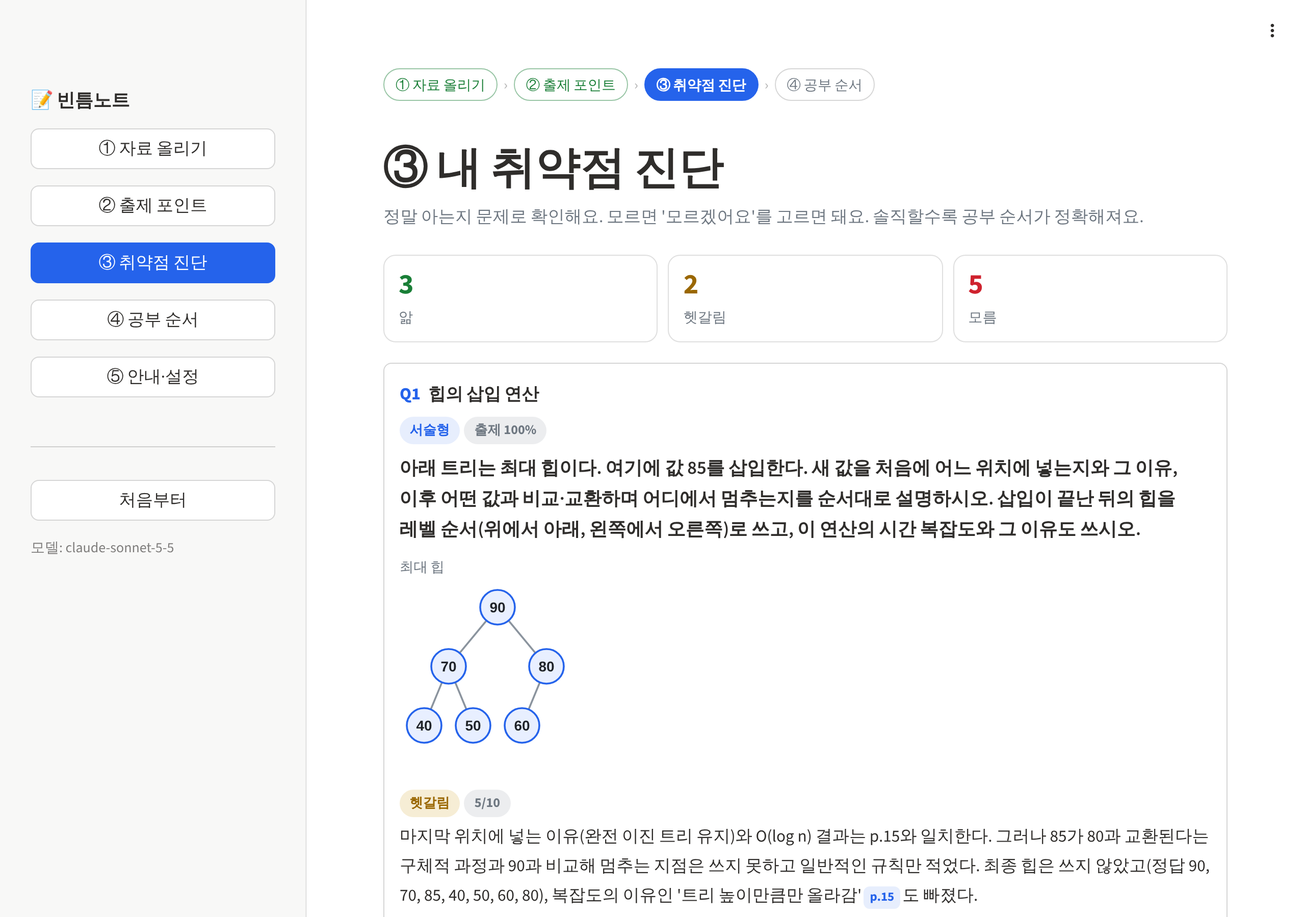
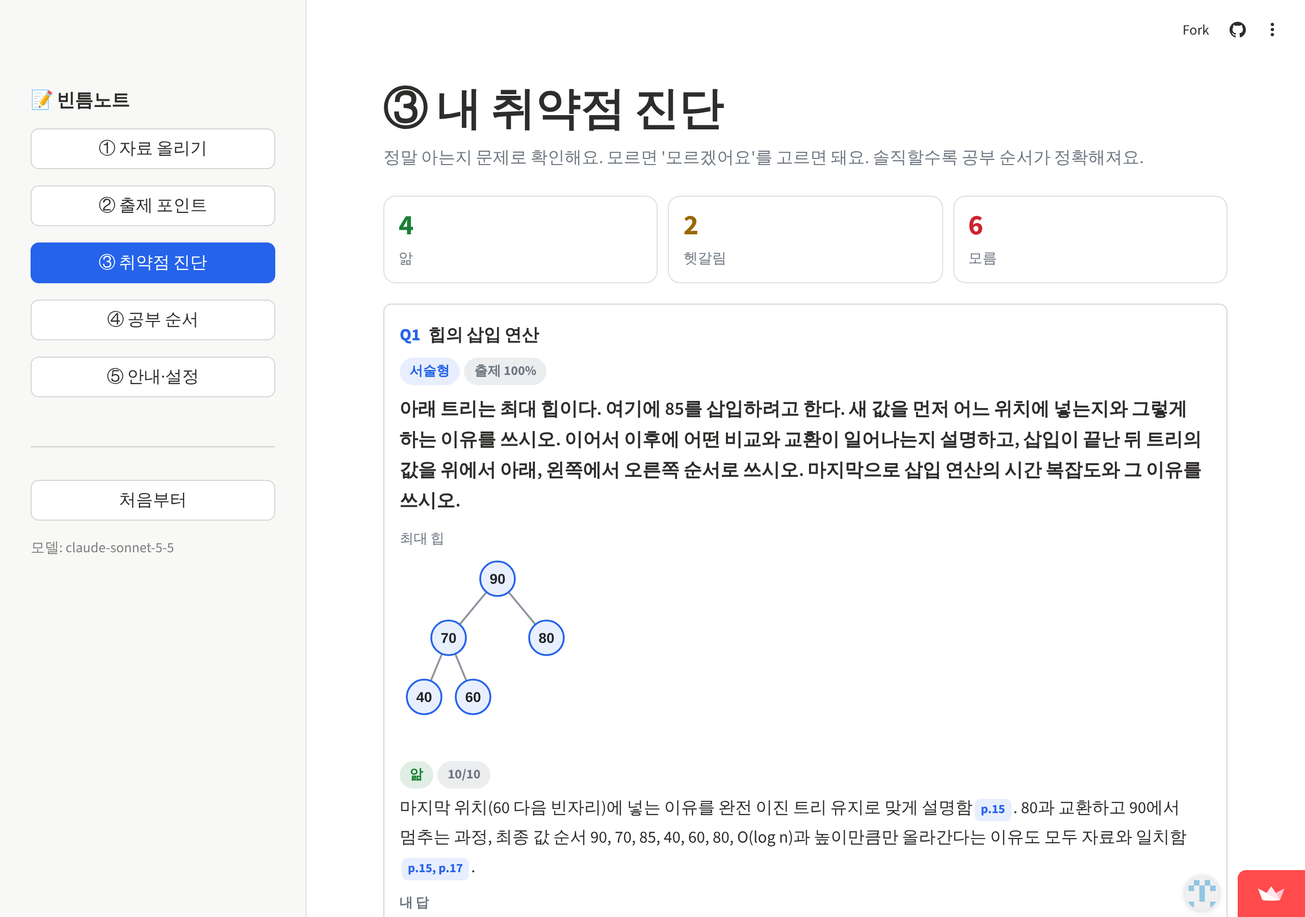
문서 v1.6 반영, 예시 답 채우기 실제 AI 확인 결과와 새 스크린샷
- 개발기획안·완성 프롬프트: v1.5(분석 횟수 제한, 빠른 진단, 샘플 문제 재사용)와 v1.6(예시 답 채우기, 예전 모듈 다시 읽기) 반영
- 배포 앱 실제 AI로 예시 답 채우기 3회 확인, 결과를 CHANGELOG·기획안에 기록
- 스크린샷: S03 예시 답 전/후 추가, S03 채점·S04 교체

Claude-Session: https://claude.ai/code/session_014aSPNmBzbdJDni6WBhZmBf

diff --git a/config.py b/config.py
@@ -1,5 +1,5 @@
 # -*- coding: utf-8 -*-
-"""빈틈노트 설정. 숫자와 이름은 여기 한 곳에서만 바꾼다. (v1.5)"""
+"""빈틈노트 설정. 숫자와 이름은 여기 한 곳에서만 바꾼다. (v1.6)"""
 
 LLM_MODEL = "claude-sonnet-5-5"   # 이 한 줄만 바꾸면 언어 모델 교체 (예: "claude-haiku-5-5")
 STT_MODEL = "whisper-1"           # None이면 음성 인식 끄기(대본 붙여넣기만 사용)

diff --git a/docs/완성프롬프트_v1.md b/docs/완성프롬프트_v1.md
@@ -1,6 +1,6 @@
 # 빈틈노트 완성 프롬프트 v1 (프로토타입 앱 생성용)
 
-> **사용법.** AI 코딩 도구(Claude Code, Codex, Cursor 등)를 빈 폴더에서 열고, 아래 "함께 주는 파일"을 그 폴더에 넣은 뒤, 이 파일 전체를 첫 메시지로 붙여 넣는다. 도구가 질문하면 `docs/개발기획안_v1.0.md` 15장의 기본값으로 답한다. 이 프롬프트는 2026-11-06 v1을 고친 v1.4(2026-11-08)이다(개발기획안 v1.4 반영: 필요한 개념 전부 진단, 객관식 추가, 화면 정리, HTML 내보내기, 문제 겹침 방지·말투 통일·답 없음 이유 구분, 문제 그림, 원본 페이지 그림, 시험 대비 요약 노트, 모든 문제에 답해야 채점, 부분 점수 채점과 실패 표시, 내려받기 2개로 나누기, 찍었을 때 헷갈린 점 적기와 그에 대한 답).
+> **사용법.** AI 코딩 도구(Claude Code, Codex, Cursor 등)를 빈 폴더에서 열고, 아래 "함께 주는 파일"을 그 폴더에 넣은 뒤, 이 파일 전체를 첫 메시지로 붙여 넣는다. 도구가 질문하면 `docs/개발기획안_v1.0.md` 15장의 기본값으로 답한다. 이 프롬프트는 2026-11-06 v1을 고친 v1.6(2026-11-09)이다(개발기획안 v1.6 반영: 필요한 개념 전부 진단, 객관식 추가, 화면 정리, HTML 내보내기, 문제 겹침 방지·말투 통일·답 없음 이유 구분, 문제 그림, 원본 페이지 그림, 시험 대비 요약 노트, 모든 문제에 답해야 채점, 부분 점수 채점과 실패 표시, 내려받기 2개로 나누기, 찍었을 때 헷갈린 점 적기와 그에 대한 답, API 비용 보호(세션·하루 분석 횟수 제한, 샘플 문제 재사용), AI 호출 수 바로 세기, 빠른 진단, 샘플 체험용 예시 답 채우기, 배포 뒤 예전 모듈 다시 읽기).
 
 ## 1. 역할과 목표
 
@@ -14,7 +14,7 @@
 
 | 파일 | 무엇 | 어떻게 쓰나 |
 |---|---|---|
-| `docs/개발기획안_v1.0.md` | 유일한 설계 문서. 화면(S01~S05), 기능(F01~F13), 규칙(BR-01~10), 데이터 형식(6장), AI 호출(7장), 점수 규칙(8장), 에러(E-01~15), 폴더 구조(10장), 테스트(11장) | 먼저 전부 읽는다. 이 프롬프트와 다르면 **개발기획안이 우선** |
+| `docs/개발기획안_v1.0.md` | 유일한 설계 문서. 화면(S01~S05), 기능(F01~F14), 규칙(BR-01~10), 데이터 형식(6장), AI 호출(7장), 점수 규칙(8장), 에러(E-01~17), 폴더 구조(10장), 테스트(11장) | 먼저 전부 읽는다. 이 프롬프트와 다르면 **개발기획안이 우선** |
 | `prompts/01_개념추출_v1.md` `02_강조발화_v1.md` `03A_진단문제_v1.md` `03B_채점_v1.md` `03C_객관식_v1.md` `04_보완설명_v1.md` `05_요약노트_v1.md` | 앱이 AI를 부를 때 쓰는 프롬프트 7개 | 내용을 고치지 않는다. 파일을 읽어 `{{자리}}`만 채워서 보낸다 |
 | `samples/자료구조_8장_트리와힙_가상강의자료.pdf` `samples/강의녹음_대본_8장_트리와힙.md` | 우리가 직접 만든 가상 샘플 자료(저작권 문제 없음) | "샘플로 체험" 버튼과 테스트에 쓴다 |
 | `tests/fixtures/01_개념추출_결과.json` `02_강조발화_결과.json` | 샘플 자료에 대한 AI 호출 1, 2의 저장된 결과(v0 형식이라 `meta_pages`가 없을 수 있음) | AI 없이 도는 테스트의 입력. `meta_pages`가 없으면 8.3의 보정 규칙으로 코드가 만든다 |
@@ -43,7 +43,8 @@
 ```text
 bintm-note/
 ├─ app.py                 # S01~S05 화면과 사이드바
-├─ config.py              # LLM_MODEL, STT_MODEL, DIAG_MIN_PCT(20), ESSAY_MIN_PCT(50), MAX_PAGES, MAX_EVIDENCE_PAGES, AUTO_EXPLAIN_TOP, CONFUSION_MAX_CHARS(300)
+├─ config.py              # LLM_MODEL, STT_MODEL, DIAG_MIN_PCT(20), ESSAY_MIN_PCT(50), MAX_PAGES, MAX_EVIDENCE_PAGES, MAX_MATERIAL_MB(30), MAX_AUDIO_MB(25), AUTO_EXPLAIN_TOP, AI_MAX_TOKENS(4000), NOTE_MAX_TOKENS(5000), CONFUSION_MAX_CHARS(300), MAX_ANALYSES_PER_SESSION(5), MAX_ANALYSES_PER_DAY(150), QUICK_DIAG_TOP(5)
+├─ CHANGELOG.md           # 버전별 변경과 실제 AI로 확인한 결과. 측정하지 않은 숫자는 적지 않는다
 ├─ core/
 │  ├─ extract.py          # F02 PDF(PyMuPDF)/PPTX(python-pptx) → pages[], F04 마스킹
 │  ├─ stt.py              # F03 녹음 → 대본 (OpenAI 전사 API). STT_MODEL이 None이면 비활성
@@ -53,12 +54,13 @@ bintm-note/
 │  ├─ concepts.py         # F05 호출 1 + 검사
 │  ├─ utterances.py       # F06 호출 2 + 인용 검사(대본에 실제로 있는 문장만)
 │  ├─ score.py            # F07 8장 점수. 가중치 표는 파일 맨 위
-│  ├─ diagnose.py         # F08 진단 대상(20% 이상 전부)·문제 형식 고르기, 호출 3-A(서술형)·3-C(객관식, 검사·보기 섞기·실패 시 서술형 대체), 3-B(서술형 채점). 객관식·"모르겠어요"는 코드 채점. is_answered(모든 문제에 답했는지). 그림 검사·다시 만들기
+│  ├─ diagnose.py         # F08 진단 대상(20% 이상 전부, 빠른 진단이면 상위 5개)·문제 형식 고르기, 호출 3-A(서술형)·3-C(객관식, 검사·보기 섞기·실패 시 서술형 대체), 3-B(서술형 채점). 객관식·"모르겠어요"는 코드 채점. is_answered(모든 문제에 답했는지). 그림 검사·다시 만들기. example_answers(샘플 체험용 예시 답, F11)
 │  ├─ figure.py           # F08 문제 그림(트리·배열·표) 검사와 그리기, 페이지·그림을 가리키는 문제 찾기
 │  ├─ priority.py         # F09 이해도 숫자화 + 우선순위
 │  ├─ explain.py          # F09 호출 4 + 페이지 검사
 │  ├─ pageimg.py          # F09 강의자료 PDF 한 쪽 → JPEG (PyMuPDF)
 │  ├─ note.py             # F13 요약 노트: 자세한 정도, 강의 순서, 호출 5
+│  ├─ guard.py            # F14 API 비용 보호: session_left, DailyCounter(서버 전체 하루 횟수), ResultCache(샘플 문제 재사용). streamlit 의존 없음
 │  └─ export.py           # F10 HTML 결과 파일 두 개: study_html(공부 순서·오답노트), notes_html(요약 노트). 페이지 그림 없음, 글은 모두 이스케이프
 ├─ prompts/               # 위 7개 파일 그대로
 ├─ samples/               # 위 2개 파일 그대로
@@ -68,9 +70,10 @@ bintm-note/
 │  ├─ test_score.py       # T-01~T-07, T-14, T-15
 │  ├─ test_prompts.py     # T-12, T-13
 │  ├─ test_pipeline.py    # T-16, T-17 (AI 호출을 fixtures로 대체)
-│  ├─ test_mcq.py         # T-18~T-24 객관식·진단 대상·문제 형식·다른 개념 목록·답 없음 이유
+│  ├─ test_mcq.py         # T-18~T-24 객관식·진단 대상·문제 형식·다른 개념 목록·답 없음 이유, T-40 샘플 예시 답
 │  ├─ test_figure_note.py # T-25~T-30 문제 그림·그림 검사·페이지 그림·요약 노트·내보내기
-│  └─ test_grading_export.py # T-31~T-34 부분 점수 채점·답해야 채점·잘린 답 다시 받기·헷갈린 점
+│  ├─ test_grading_export.py # T-31~T-34 부분 점수 채점·답해야 채점·잘린 답 다시 받기·헷갈린 점
+│  └─ test_guard.py       # T-35~T-39 세션·하루 분석 횟수, 결과 재사용, 빠른 진단 대상, 호출 수 세기
 ├─ docs/
 │  ├─ 개발기획안_v1.0.md
 │  └─ 스크린샷/            # S01~S05 화면 PNG(S03 답하지 않은 문제 경고, S03 채점 후, S04 요약 노트 탭 포함) + 내려받은 HTML 2개 화면
@@ -87,16 +90,16 @@ bintm-note/
 **1단계 뼈대.** `config.py`, `core/llm.py`, `core/prompts.py`, `core/schemas.py`, `core/extract.py`, `core/stt.py`, `tests/test_extract.py`, `tests/test_prompts.py`.
 확인: `pytest tests/` 통과. 샘플 PDF가 20쪽으로 추출되고 15쪽에 "업힙"이 있다. `{{MATERIAL}}`이 치환 후 남지 않는다. 키가 있으면 `ask_json`으로 아주 짧은 JSON 요청 1회가 성공한다.
 
-**2단계 기능 ① 출제 포인트 레이더.** `core/concepts.py`, `core/utterances.py`, `core/score.py`, `app.py`의 S01(업로드 2종 + 대본 붙여넣기 탭 + 샘플 체험 버튼 + 진행 표시 + 에러 E-01~E-10, E-13) 과 S02(순위 표 + 개념 상세 + 주의 문구), `tests/test_score.py`.
-확인: fixtures로 상위 3개가 {이진 트리의 순회, 힙의 삭제 연산, 힙의 삽입 연산}(순서 무관)이고 BST 삭제가 마지막이다. 같은 입력을 두 번 돌리면 점수가 같다. 키가 있으면 샘플 체험 버튼으로 실제 실행(A-01)과 대본 없이 실행(A-02)이 끝까지 간다.
+**2단계 기능 ① 출제 포인트 레이더.** `core/concepts.py`, `core/utterances.py`, `core/score.py`, `app.py`의 S01(업로드 2종 + 대본 붙여넣기 탭 + 샘플 체험 버튼 + 진행 표시 + 에러 E-01~E-10, E-13, E-16, E-17. 녹음 업로더에는 `max_upload_size=MAX_AUDIO_MB`를 걸어 기본 안내도 "25MB per file"로 보이게) 과 S02(순위 표 + 개념 상세 + 주의 문구), `core/guard.py`(F14), `tests/test_score.py`, `tests/test_guard.py`(T-35~T-37).
+확인: fixtures로 상위 3개가 {이진 트리의 순회, 힙의 삭제 연산, 힙의 삽입 연산}(순서 무관)이고 BST 삭제가 마지막이다. 같은 입력을 두 번 돌리면 점수가 같다. "분석 시작"·"샘플 체험"은 분석 1번으로 세고, 세션당 5번을 넘으면 E-16, 서버 전체 하루 150번을 넘으면 E-17로 분석하지 않는다. 분석이 실패하면 센 횟수를 돌려준다. 키가 있으면 샘플 체험 버튼으로 실제 실행(A-01)과 대본 없이 실행(A-02)이 끝까지 간다.
 
-**3단계 기능 ② 내 취약점 진단.** `core/diagnose.py`, `core/figure.py`, `app.py`의 S02 아래 문제 형식 라디오(섞어서/모두 객관식/모두 서술형)와 "n개 개념 진단하기" 버튼, S03(진행 막대, 서술형 카드: 답 입력 + "모르겠어요", 객관식 카드: 보기 ①~④ + 항상 다섯째 "모르겠어요" 라디오 + "확신 없이 골랐어요"(체크하면 아래에 선택 입력칸 "어떤 점이 헷갈렸나요? (선택)"이 생김, 300자), 문제에 그림이 있으면 문제 아래에 그림, 모든 문제에 답해야 한 번에 채점(답하지 않은 문제는 빨간 글씨로 표시), 서술형 채점이 실패한 문제는 표시하고 그 문제만 다시 채점, 상태 배지·점수·이유, 객관식은 정답·내 답 표시와 해설, 서술형은 모범 답안·루브릭, 요약 숫자 칸), `tests/test_mcq.py`, `tests/test_figure_note.py`(T-25~T-27), `tests/test_grading_export.py`(T-31~T-34). 진단 개수를 고르는 슬라이더는 만들지 않는다.
-확인: 출제 가능성 20% 이상 개념만 전부 진단한다. 섞어서는 50% 이상 서술형, 미만 객관식. 답하지 않은 문제(객관식 안 고름, 서술형 빈 답이고 "모르겠어요" 체크 안 함)가 있으면 채점하지 않고 그 문제를 알려 준다. "모르겠어요"는 AI 호출 없이 0점 "모름"("'모르겠어요'를 골라…")이고, 코드에는 안전장치로 빈 답("답을 비워 두어…")·객관식 안 고름("보기를 고르지 않아…") 이유도 남긴다. AI가 루브릭 점수를 2.5 같은 부분 점수나 null로 줘도 채점이 멈추지 않고(정수로 바꾸고 항목 배점으로 자름), 한 문제의 채점이 실패해도 나머지는 채점된다. 서술형 상태는 코드가 점수로 정한다(8 이상 앎, 4~7 헷갈림, 3 이하 모름). 객관식은 확신하고 맞힘 앎, 찍어서 맞힘 헷갈림, 틀림·모르겠어요 모름. 헷갈린 점 입력칸은 비워 둬도 채점한다. 객관식 보기는 섞여도 정답이 따라가고, 형식이 틀린 응답은 서술형으로 대신 낸다. 형식이 틀린 그림은 버리고, 문제 글이 페이지(p.n, n쪽)나 그림 없는 "그림·위 트리"를 가리키면 한 번 더 만들게 한다(객관식은 그래도 안 되면 서술형으로). 키가 있으면 A-03: 신호표의 맞는 답 → 앎, 정렬 혼동 답 → 모름, 삭제 혼동 답 → 모름(개념 혼동).
+**3단계 기능 ② 내 취약점 진단.** `core/diagnose.py`, `core/figure.py`, `app.py`의 S02 아래 문제 형식 라디오(섞어서/모두 객관식/모두 서술형), "빠른 진단: 출제 가능성 상위 5개만 풀기" 토글(기본 꺼짐, 대상이 5개보다 많을 때만, 채점 후 잠김)과 "n개 개념 진단하기" 버튼, S03(진행 막대, 샘플 자료일 때만 "예시 답 채우기 (샘플 체험용)" 버튼, 서술형 카드: 답 입력 + "모르겠어요", 객관식 카드: 보기 ①~④ + 항상 다섯째 "모르겠어요" 라디오 + "확신 없이 골랐어요"(체크하면 아래에 선택 입력칸 "어떤 점이 헷갈렸나요? (선택)"이 생김, 300자), 문제에 그림이 있으면 문제 아래에 그림, 모든 문제에 답해야 한 번에 채점(답하지 않은 문제는 빨간 글씨로 표시), 서술형 채점이 실패한 문제는 표시하고 그 문제만 다시 채점, 상태 배지·점수·이유, 객관식은 정답·내 답 표시와 해설, 서술형은 모범 답안·루브릭, 요약 숫자 칸), `tests/test_mcq.py`(T-40 포함), `tests/test_figure_note.py`(T-25~T-27), `tests/test_grading_export.py`(T-31~T-34), `tests/test_guard.py`(T-38). 진단 개수를 고르는 슬라이더는 만들지 않는다.
+확인: 출제 가능성 20% 이상 개념만 전부 진단한다. 섞어서는 50% 이상 서술형, 미만 객관식. 답하지 않은 문제(객관식 안 고름, 서술형 빈 답이고 "모르겠어요" 체크 안 함)가 있으면 채점하지 않고 그 문제를 알려 준다. "모르겠어요"는 AI 호출 없이 0점 "모름"("'모르겠어요'를 골라…")이고, 코드에는 안전장치로 빈 답("답을 비워 두어…")·객관식 안 고름("보기를 고르지 않아…") 이유도 남긴다. AI가 루브릭 점수를 2.5 같은 부분 점수나 null로 줘도 채점이 멈추지 않고(정수로 바꾸고 항목 배점으로 자름), 한 문제의 채점이 실패해도 나머지는 채점된다. 서술형 상태는 코드가 점수로 정한다(8 이상 앎, 4~7 헷갈림, 3 이하 모름). 객관식은 확신하고 맞힘 앎, 찍어서 맞힘 헷갈림, 틀림·모르겠어요 모름. 헷갈린 점 입력칸은 비워 둬도 채점한다. 객관식 보기는 섞여도 정답이 따라가고, 형식이 틀린 응답은 서술형으로 대신 낸다. 형식이 틀린 그림은 버리고, 문제 글이 페이지(p.n, n쪽)나 그림 없는 "그림·위 트리"를 가리키면 한 번 더 만들게 한다(객관식은 그래도 안 되면 서술형으로). 빠른 진단을 켜면 출제 가능성 상위 5개만 문제를 내고 나머지는 '진단 안 함'(이해도 0.5)이다. "예시 답 채우기"를 누르면 모든 문제가 답한 상태가 되고, 객관식 코드 채점에서 앎·헷갈림·모름이 모두 나온다. 샘플 자료의 문제는 두 번째 사람부터 AI를 부르지 않고 저장된 것을 낸다. 키가 있으면 A-03: 신호표의 맞는 답 → 앎, 정렬 혼동 답 → 모름, 삭제 혼동 답 → 모름(개념 혼동).
 
-**4단계 기능 ③ 우선순위 보완 학습 + ④ 시험 대비 요약 노트.** `core/priority.py`, `core/explain.py`, `core/pageimg.py`, `core/note.py`, `core/export.py`, `app.py`의 S04(숫자 칸 3개, 탭 2개. 첫 탭 "공부 순서와 오답노트": 지금 당장·다음·복습만 묶음, 오답노트 카드: "내 문제와 답 다시 보기" 접기(문제·내 답·채점·정답·해설) + 내가 놓친 점 + (헷갈린 점을 적었으면) "내가 헷갈린 점에 대한 답"(적은 글 + 답) + 문단 설명 + p.n 배지 + "찾지 못함" 상자 + "강의자료 원본 보기" 접기(PDF 페이지 그림 최대 2쪽), "다음" 한 번에 보기, 복습만 접기, 전체 표. 둘째 탭 "시험 대비 요약 노트": 강의 순서대로 모든 개념, 자세히·보통·짧게 표시, 교수님 말, 핵심, 자주 하는 실수, 원본 보기, 실패한 개념 다시 만들기 버튼. 내려받기 버튼 2개(공부 순서·오답노트, 요약 노트), 다시 하기)와 S05(안내, 현재 설정, 사용량), `tests/test_pipeline.py`, `tests/test_figure_note.py`(T-28~T-30).
-확인: 8.6의 예시 4개가 97, 50, 0, 25로 나온다. 요약 노트의 자세한 정도가 F13 규칙대로이고 "짧게"는 AI를 부르지 않는다. 내려받는 HTML은 두 개다. 공부 순서·오답노트 파일에 "1. 공부 순서"·"2. 오답노트"(틀리거나 헷갈린 문제마다 문제·내 답·채점·정답·보완 설명이 카드 한 장)·맞힌 문제(접힘)·주의 문구가 있고, 요약 노트 파일에는 요약 노트만 있다. 두 파일 모두 페이지 그림이 없고 태그가 섞인 글은 이스케이프된다. `source_pages`에 범위 밖 번호를 넣으면 지워진다. 헷갈린 점을 적은 개념은 순위와 상관없이 설명을 자동으로 만들고, 그 답이 화면과 오답노트 파일에 적은 글과 함께 나온다(적은 게 없으면 AI가 답을 써도 버린다). 키가 있으면 "지금 당장" 전부와 상위 3개, 헷갈린 점을 적은 개념의 설명, "자세히"·"보통" 요약 노트가 자동 생성되고 각 설명과 노트에 `(p.n)` 인용이 있다.
+**4단계 기능 ③ 우선순위 보완 학습 + ④ 시험 대비 요약 노트.** `core/priority.py`, `core/explain.py`, `core/pageimg.py`, `core/note.py`, `core/export.py`, `app.py`의 S04(숫자 칸 3개, 탭 2개. 첫 탭 "공부 순서와 오답노트": 지금 당장·다음·복습만 묶음, 오답노트 카드: "내 문제와 답 다시 보기" 접기(문제·내 답·채점·정답·해설) + 내가 놓친 점 + (헷갈린 점을 적었으면) "내가 헷갈린 점에 대한 답"(적은 글 + 답) + 문단 설명 + p.n 배지 + "찾지 못함" 상자 + "강의자료 원본 보기" 접기(PDF 페이지 그림 최대 2쪽), "다음" 한 번에 보기, 복습만 접기, 전체 표. 둘째 탭 "시험 대비 요약 노트": 강의 순서대로 모든 개념, 자세히·보통·짧게 표시, 교수님 말, 핵심, 자주 하는 실수, 원본 보기, 실패한 개념 다시 만들기 버튼. 내려받기 버튼 2개(공부 순서·오답노트, 요약 노트), 다시 하기)와 S05(안내, 현재 설정, 사용량: AI 호출 수는 호출마다 세고 저장된 결과를 다시 쓰면 더하지 않음), `tests/test_pipeline.py`, `tests/test_figure_note.py`(T-28~T-30).
+확인: 8.6의 예시 4개가 97, 50, 0, 25로 나온다. 요약 노트의 자세한 정도가 F13 규칙대로이고 "짧게"는 AI를 부르지 않는다. 내려받는 HTML은 두 개다. 공부 순서·오답노트 파일에 "1. 공부 순서"·"2. 오답노트"(틀리거나 헷갈린 문제마다 문제·내 답·채점·정답·보완 설명이 카드 한 장)·맞힌 문제(접힘)·주의 문구가 있고, 요약 노트 파일에는 요약 노트만 있다. 두 파일 모두 페이지 그림이 없고 태그가 섞인 글은 이스케이프된다. `source_pages`에 범위 밖 번호를 넣으면 지워진다. "올린 자료에서 찾지 못함" 상자에는 오류 코드를 붙이지 않는다. 동시 호출 묶음의 사용량을 더해도 호출 수가 묶음 안의 호출 수만큼 는다(T-39). 헷갈린 점을 적은 개념은 순위와 상관없이 설명을 자동으로 만들고, 그 답이 화면과 오답노트 파일에 적은 글과 함께 나온다(적은 게 없으면 AI가 답을 써도 버린다). 키가 있으면 "지금 당장" 전부와 상위 3개, 헷갈린 점을 적은 개념의 설명, "자세히"·"보통" 요약 노트가 자동 생성되고 각 설명과 노트에 `(p.n)` 인용이 있다.
 
-**5단계 마무리.** `README.md`, `requirements.txt`(버전 고정), `.streamlit/config.toml`, `.gitignore`, `docs/스크린샷/`(S01~S05, S03 답하지 않은 문제 경고, S03 헷갈린 점 입력칸, S04 헷갈린 점에 대한 답, S03 채점 후, S04 요약 노트 탭, 내려받은 HTML 2개), 사용량 표시.
+**5단계 마무리.** `README.md`, `CHANGELOG.md`, `requirements.txt`(버전 고정), `.streamlit/config.toml`, `.gitignore`, `docs/스크린샷/`(S01~S05, S03 답하지 않은 문제 경고, S03 헷갈린 점 입력칸, S04 헷갈린 점에 대한 답, S03 채점 후, S04 요약 노트 탭, 내려받은 HTML 2개), 사용량 표시.
 확인: 새 가상환경에서 `pip install -r requirements.txt` → `streamlit run app.py` → 샘플 체험이 끝까지 간다. `git status`에 secrets.toml과 비공개 자료가 없다. README의 모든 숫자에 출처 명령어가 있다.
 
 ## 6. 구현 세부 (개발기획안에 더 자세히 있음, 여기서는 빠뜨리기 쉬운 것만)
@@ -111,7 +114,13 @@ bintm-note/
 - **원본 페이지 그림(F09).** PDF일 때만 PyMuPDF로 그 쪽을 JPEG로 그린다(화면 가로 900px). 화면에서만 쓰고 내려받는 HTML에는 넣지 않는다. `st.cache_data`로 캐시하고 PDF 바이트는 해시하지 않는 인자(`_data`)로 넘긴다. PPTX는 그림 없이 p.n만.
 - **요약 노트(F13).** 강의 순서 = 개념이 본문(메타 페이지 제외)에 처음 나오는 쪽. 자세한 정도는 코드가 정한다(자세히: "지금 당장"·출제 가능성 50% 이상·진단 모름(20% 이상) / 보통: "다음"·헷갈림 / 짧게: 나머지). 짧게는 호출 1의 한 줄 요약을 그대로 쓴다. 교수님 말은 AI가 아니라 코드가 호출 2 결과에서 강한 것부터 3개 붙인다.
 - **화면(3.7).** `layout="centered"`에 본문 폭 860px, 글자 약 17px, 줄 간격 1.75. 단계 표시 줄, 숫자 칸, 막대, 배지, 테두리 카드로 읽기 쉽게. AI 글을 HTML로 넣을 때는 반드시 이스케이프한다. 휴대폰 폭에서도 깨지지 않게.
-- **캐시.** 파일 내용 해시 12자를 `run_id`로 두고, 호출 1, 2 결과를 `st.cache_data`로 캐시한다.
+- **캐시.** 파일 내용 해시 12자를 `run_id`로 두고, 호출 1, 2 결과를 `st.cache_data`로 캐시한다. 캐시에서 꺼냈으면(AI를 부르지 않았으면) 사용량을 더하지 않는다. 샘플 자료의 진단 문제는 서버에 하나인 `ResultCache`(`st.cache_resource`)에 (run_id, 개념, 문제 형식, 다른 개념 이름) 키로 두고 다음 사람에게도 그대로 낸다(꺼낼 때는 복사본). 내 자료의 문제·채점·설명·노트는 매번 만든다.
+- **API 비용 보호(F14, v1.5).** 배포 앱은 운영자 키 하나로 누구나 쓴다. `core/guard.py`에 `session_left(used, limit)`(0 이하 limit은 제한 없음, -1), `DailyCounter(limit)`(`try_take()`·`give_back()`·`count`, 날짜가 바뀌면 0부터, 잠금으로 스레드 안전, limit 0은 제한 없음), `ResultCache(max_items=200)`(넘치면 오래된 것부터 버림)를 둔다. `app.py`는 `DailyCounter`를 `st.cache_resource`로 서버에 하나만 만들고, "분석 시작"·"샘플 체험" 전에 세션 횟수(`analyses_used`, "다른 자료로 다시"로도 지우지 않음)와 하루 횟수를 하나 쓴다. 세션 한도면 E-16, 하루 한도면 E-17. 분석이 실패하면 둘 다 돌려준다. 남은 횟수가 2번 이하면 S01 버튼 아래에 알려 준다.
+- **사용량 세기(v1.5).** 스레드에서 쓴 `Usage` 묶음을 세션에 더할 때(`merge`) 호출 수도 묶음 안의 호출 수만큼 더한다(묶음을 1번으로 세지 않는다). 토큰과 시간도 그대로 더한다.
+- **빠른 진단(F08, v1.5).** S02의 토글(`quick_diag`, 기본 False). 켜면 `diag_targets(scores, top=QUICK_DIAG_TOP)`로 출제 가능성 20% 이상 중 순위 순서로 상위 5개만 진단한다. 나머지는 '진단 안 함'(이해도 0.5)으로 공부 순서에 들어간다. 도움말에 몇 문제 대신 몇 문제를 풀고 나머지 몇 개가 '진단 안 함'이 되는지 적는다.
+- **예시 답 채우기(F11, v1.6).** 샘플 자료(`from_sample`)일 때만, 아직 답하지 않은 문제가 있으면 S03 진행 막대 아래에 "예시 답 채우기 (샘플 체험용)" 버튼. `core/diagnose.py`의 `example_answers(questions)`가 문제마다 답을 만든다. 서술형끼리 차례로 모범 답안 전체 → 모범 답안 첫 문장만 → '모르겠어요'(dont_know), 객관식끼리 차례로 (정답, 확신) → (정답, 찍음, 헷갈린 점 `EXAMPLE_CONFUSION`) → (정답 다음 보기, 확신). 그래서 앎·헷갈림·모름과 "내가 헷갈린 점에 대한 답"이 모두 나온다. 버튼을 누르면 이 값을 입력칸의 세션 키(`ans_`, `dk_`, `mcq_`, `guess_`, `conf_` + concept_id)와 `answers`·`dont_know`·`mcq_choice`·`guessed`·`confusion`에 넣고 화면을 다시 그린다(입력칸이 그려지기 전에 넣어야 한다). 채점은 그대로 객관식은 코드, 서술형은 AI가 한다. 채운 뒤 고쳐도 된다.
+- **입력칸 기본값(v1.6).** 입력칸의 세션 키가 이미 있으면 위젯에 `value`/`index` 기본값을 넘기지 않는다. 세션 키와 기본값을 둘 다 정하면 Streamlit이 경고를 남긴다.
+- **예전 모듈 버리기(v1.6, 12장).** Streamlit Cloud는 재배포 때 `app.py`만 다시 실행하고 이미 불러온 `core.*`·`config` 모듈은 예전 것을 쓴다. 그러면 새 함수를 못 찾아 ImportError가 난다. `app.py` 맨 위, `core`·`config`를 import하기 전에 그 모듈 파일들의 수정 시각을 `sys`에 기록해 두고, 시각이 바뀌었으면 `sys.modules`에서 지워 새로 읽게 하고 `st.cache_resource.clear()`로 서버 공용 캐시도 비운다.
 - **메타 페이지.** 호출 1의 `meta_pages`를 쓰되, 없으면 8.3의 키워드 규칙(첫 80자에 "목차", "학습 목표", "연습문제", "요약" 등)으로 만들고 1쪽은 항상 포함.
 - **인용 검사.** 호출 2의 `quote`는 대본에 공백을 무시하고 실제로 있어야 한다. 없으면 버린다. 호출 4의 `source_pages`, `check_pages`는 입력한 페이지 안에 있어야 한다.
 - **마스킹.** 학번(숫자 8~10자리), 전화번호, 이메일을 `[마스킹]`으로. 사람 이름은 건드리지 않는다.
@@ -123,13 +132,15 @@ bintm-note/
 
 1. 한 줄 소개, 배포 URL, "출제를 보장하지 않습니다" 문구
 2. 무엇을 하는 앱인지: 기능 ①②③④ 각 3줄 + 스크린샷
-3. 사용 방법: "샘플로 체험" / 내 자료 올리기 / 녹음 대신 대본 붙여넣기
+3. 사용 방법: "샘플로 체험"(문제를 다 풀 시간이 없으면 "예시 답 채우기") / 내 자료 올리기 / 녹음 대신 대본 붙여넣기 / 빠른 진단 / 배포 앱의 분석 횟수 제한(세션당 5번, 하루 150번)
 4. 어떻게 동작하는지: 흐름(AI 호출 5종 + 코드 점수), 8.1 가중치 표, 우선순위 공식, 모델 이름과 교체 방법(`config.py` 한 줄)
 5. 로컬 실행: `pip install -r requirements.txt` → `.streamlit/secrets.toml` 만들기(키 이름만, 값은 적지 않음) → `streamlit run app.py`
 6. 테스트: `pytest tests/` 결과 그대로, 샘플 상위 3개, 실제 호출 1회의 토큰 수·시간(잰 값만, 낸 명령어와 함께)
-7. 한계와 향후 계획: 스캔 PDF 미지원, 한 번에 한 장, 녹음 25MB, 점수는 규칙 기반 추정, 모델 교체, 학우 질문 기록
+7. 한계와 향후 계획: 스캔 PDF 미지원, 한 번에 한 장, 녹음 25MB, 점수는 규칙 기반 추정, 분석 횟수는 서버 메모리에서 세므로 서버가 다시 켜지면 0부터, 모델 교체, 학우 질문 기록
 8. 데이터 처리·저작권·녹음 동의 안내
 9. 팀·대회 정보 (KOREATECH AI 실습형 이벤트, Build for Students)
+
+버전별 변경과 실제 AI로 확인한 결과는 README가 아니라 `CHANGELOG.md`에 최신이 위로 오게 적는다.
 
 ## 8. 모르는 것이 있을 때
 

diff --git a/CHANGELOG.md b/CHANGELOG.md
@@ -4,7 +4,7 @@
 
 ## v1.6
 
-v1.6(2026-11-09)은 처음 써 보는 사람(심사 포함)이 샘플 체험에서 10~12문제를 모두 직접 풀어야 결과를 볼 수 있던 불편을 줄였습니다. 샘플 자료로 체험할 때만 ③에 **예시 답 채우기** 버튼이 나옵니다. 누르면 서술형은 모범 답안 전체 → 첫 문장만 → '모르겠어요', 객관식은 확신하고 정답 → 찍어서 정답(헷갈린 점 적음) → 오답 순서로 돌려 가며 채워서, 앎·헷갈림·모름과 "내가 헷갈린 점에 대한 답"이 모두 나오게 합니다. 채점은 그대로 객관식은 코드, 서술형은 AI가 합니다. 채운 뒤 답을 고쳐도 됩니다(`core/diagnose.py`의 `example_answers`). 자동 테스트(57개)와 가짜 AI 모드에서 버튼 → 채점까지 브라우저로 확인했고(가짜 AI 기준 앎 3 · 헷갈림 5 · 모름 3), 배포 앱에서 실제 AI로는 아직 확인하지 않았습니다.
+v1.6(2026-11-09)은 처음 써 보는 사람(심사 포함)이 샘플 체험에서 10~12문제를 모두 직접 풀어야 결과를 볼 수 있던 불편을 줄였습니다. 샘플 자료로 체험할 때만 ③에 **예시 답 채우기** 버튼이 나옵니다. 누르면 서술형은 모범 답안 전체 → 첫 문장만 → '모르겠어요', 객관식은 확신하고 정답 → 찍어서 정답(헷갈린 점 적음) → 오답 순서로 돌려 가며 채워서, 앎·헷갈림·모름과 "내가 헷갈린 점에 대한 답"이 모두 나오게 합니다. 채점은 그대로 객관식은 코드, 서술형은 AI가 합니다. 채운 뒤 답을 고쳐도 됩니다(`core/diagnose.py`의 `example_answers`). 자동 테스트(57개)와 가짜 AI 모드에서 버튼 → 채점까지 브라우저로 확인했고(가짜 AI 기준 앎 3 · 헷갈림 5 · 모름 3), 배포 앱 반영 뒤 실제 AI로 3번 돌렸습니다: 버튼을 누르면 12문제(객관식 6 · 서술형 6)가 모두 채워졌고, 채점 시간은 잰 2번이 10.5초 · 12.5초였습니다. 실패 없이 끝난 2번은 모두 앎 4 · 헷갈림 2 · 모름 6이었습니다(첫 문장만 쓴 서술형은 AI가 모름으로 채점). 그중 1번은 서술형 1문제가 채점에 실패해(E-08) '채점 못한 문제 다시 채점'이 나왔고, 나머지 2번은 실패 0이었습니다. ④는 "공부 순서 보기"부터 내려받기 버튼이 나올 때까지 35.7초였습니다(1회).
 
 ## v1.5
 

diff --git a/README.md b/README.md
@@ -35,11 +35,15 @@
 | ③ 우선순위 보완 학습 | 출제 가능성 × (1 − 이해도)로 **공부 우선순위**를 정하고, 개념마다 **오답노트**를 만듭니다. 오답노트 한 장에 문제, 내 답, 채점, 정답·해설, 자료의 해당 페이지를 인용한 보완 설명이 함께 들어 있습니다. ③에서 헷갈린 점을 적었으면 그 개념의 보완 설명 위에 **"내가 헷갈린 점에 대한 답"**이 붙습니다. 자료에 없는 내용은 "올린 자료에서 찾지 못함"으로 표시합니다. 화면에서는 "강의자료 원본 보기"를 펼쳐 근거 페이지 그림도 볼 수 있습니다 | ④ |
 | ④ 시험 대비 요약 노트 | 강의 순서대로 **모든 개념**을 정리합니다. 지금 당장 볼 개념, 출제 가능성이 높은 개념, 진단에서 틀린 개념은 **자세히**(핵심·자주 하는 실수·교수님 말 포함), 나머지는 보통 또는 한두 줄로 씁니다 | ④ 두 번째 탭 |
 
-스크린샷(`docs/스크린샷/`): 2026-11-09에 배포 앱에서 **실제 AI**로 "샘플 자료로 체험하기"를 끝까지 돌리며 찍은 화면입니다(v1.4, 위 GIF와 같은 실행).
+스크린샷(`docs/스크린샷/`): 2026-11-09에 배포 앱에서 **실제 AI**로 "샘플 자료로 체험하기"를 끝까지 돌리며 찍은 화면입니다. 예시 답 채우기·채점 결과·④는 v1.6, 나머지는 v1.4(위 GIF와 같은 실행)입니다.
 
 | ① 자료 올리기 | ② 출제 포인트 레이더 |
 |---|---|
 | ![S01](docs/스크린샷/S01.png) | ![S02](docs/스크린샷/S02.png) |
+
+| ③ 예시 답 채우기 (샘플 체험용) | ③ 누르면 모든 문제가 채워짐 |
+|---|---|
+| ![S03 예시 답 전](docs/스크린샷/S03_예시답_전.png) | ![S03 예시 답 후](docs/스크린샷/S03_예시답_후.png) |
 
 | ③ 내 취약점 진단 (문제 그림 포함) | ③ 답하지 않은 문제가 있으면 채점하지 않음 |
 |---|---|
